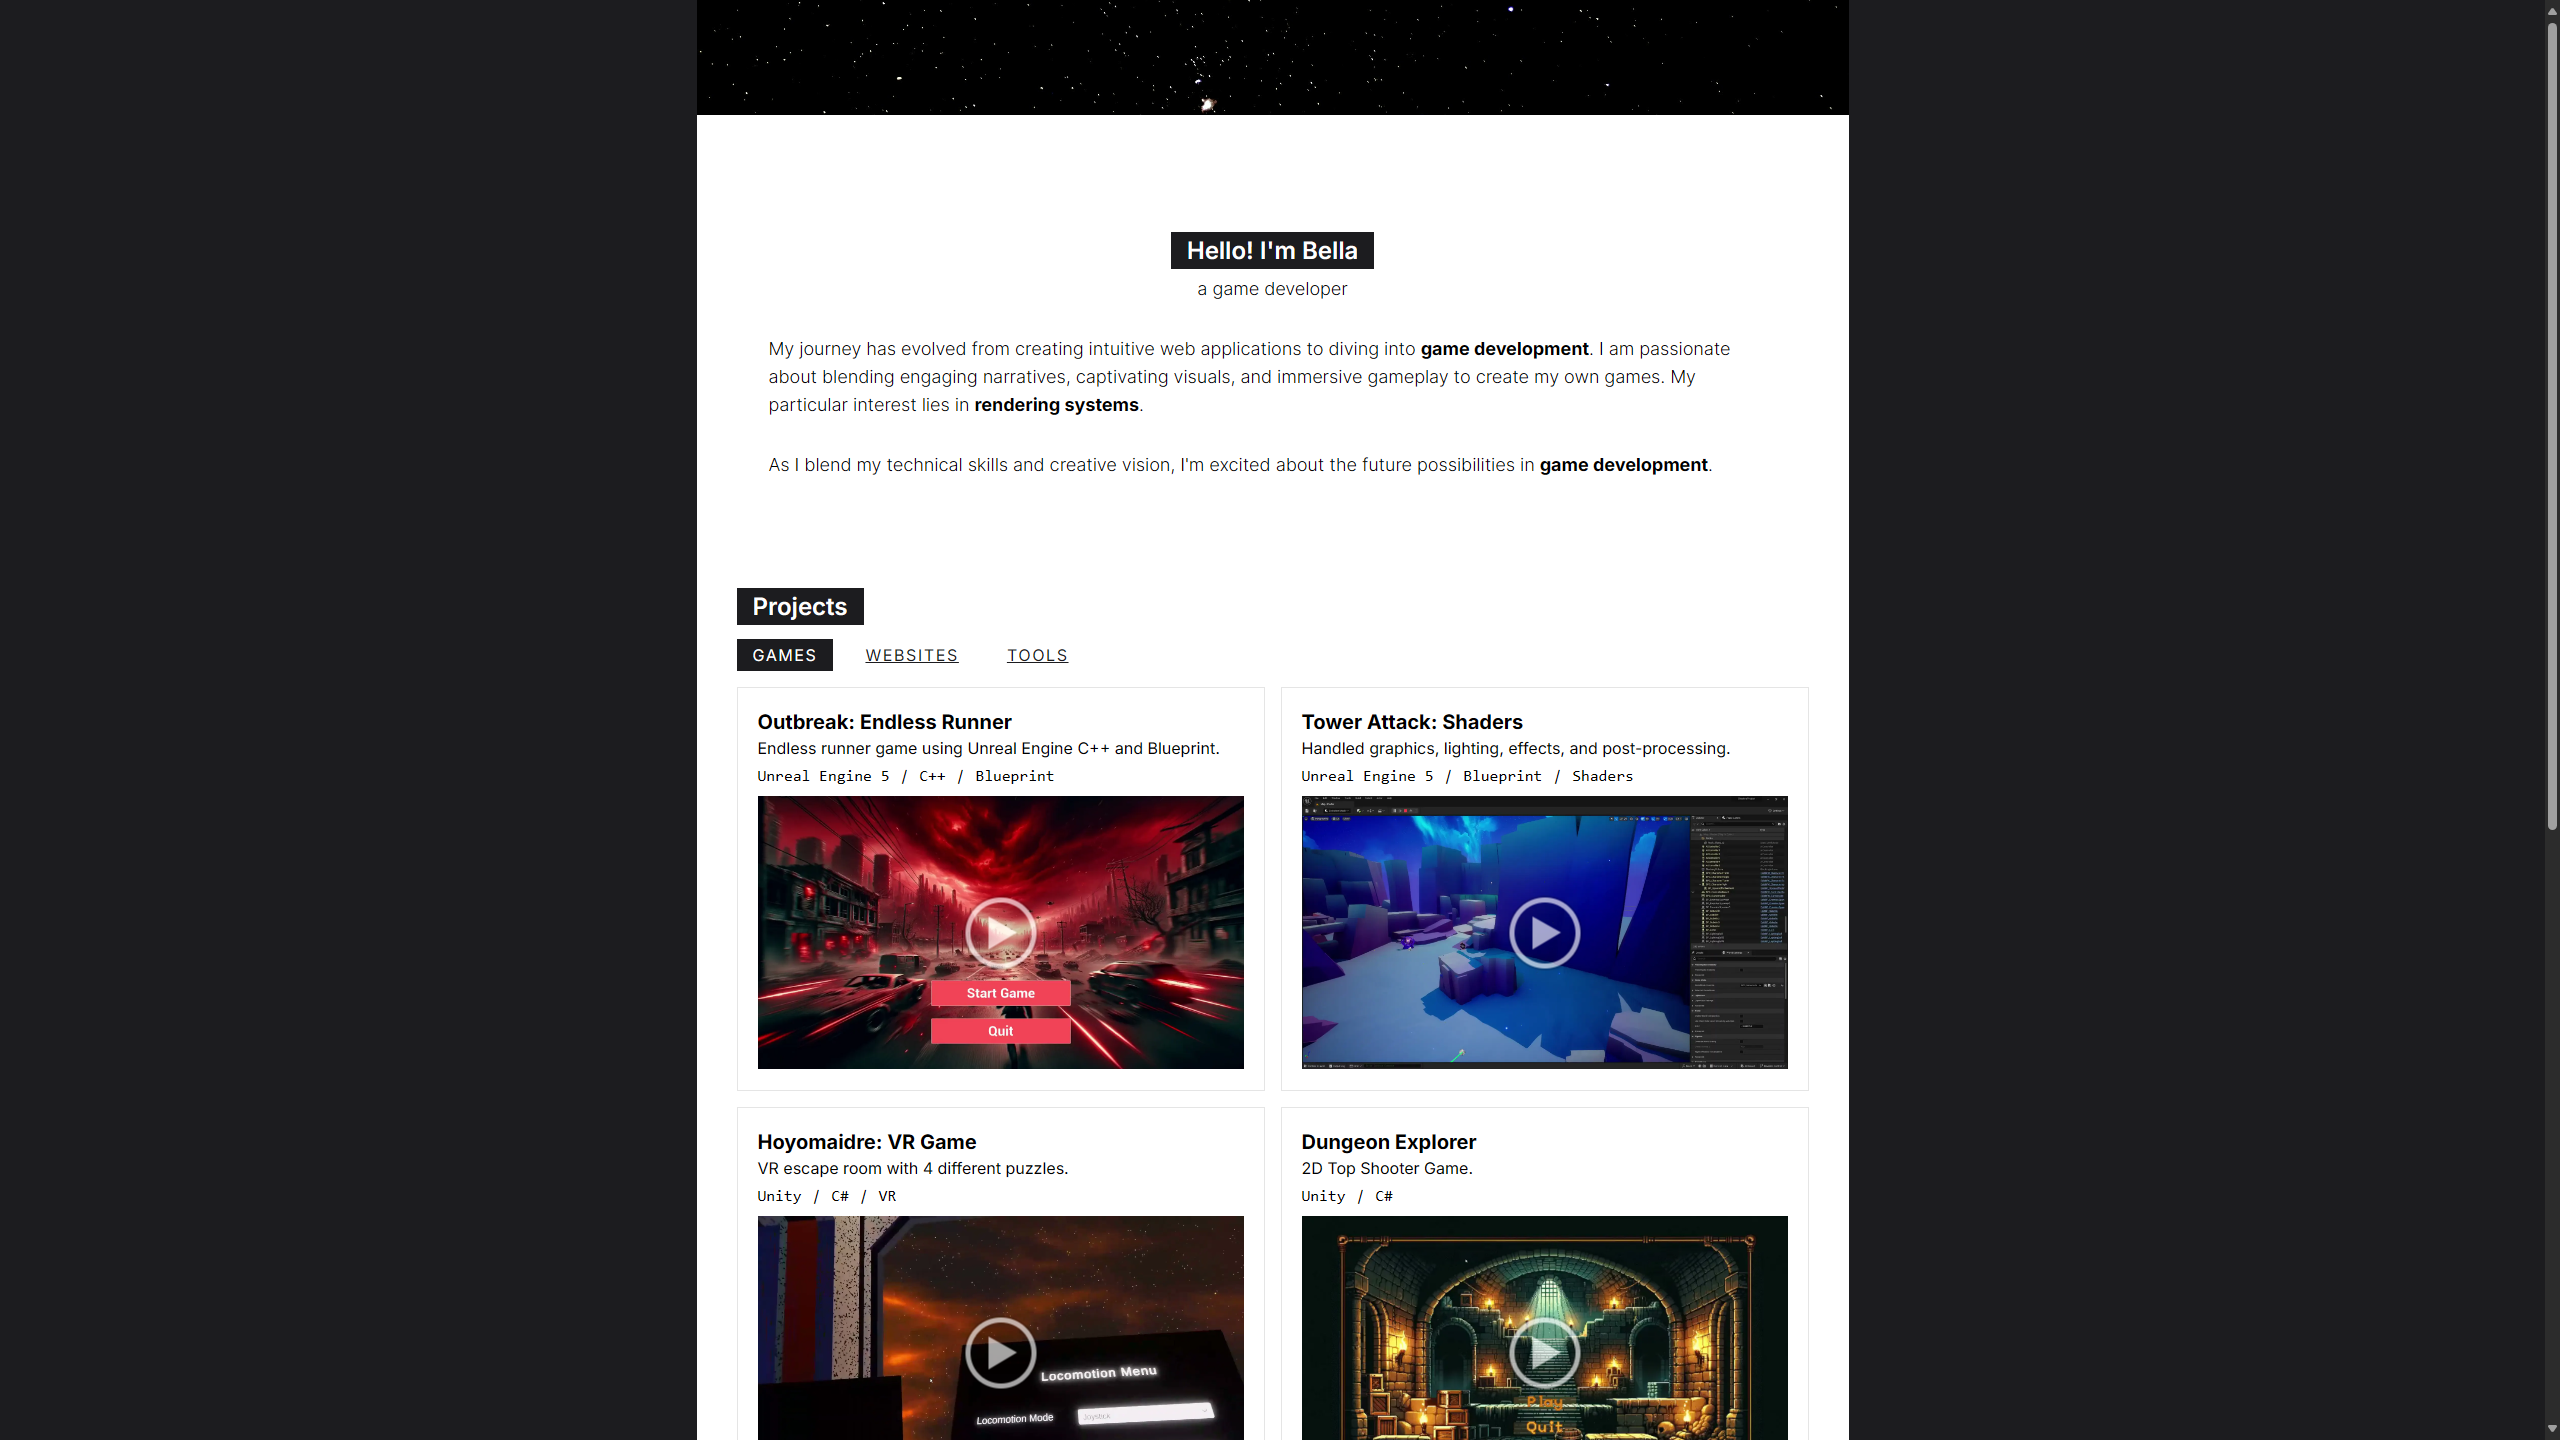
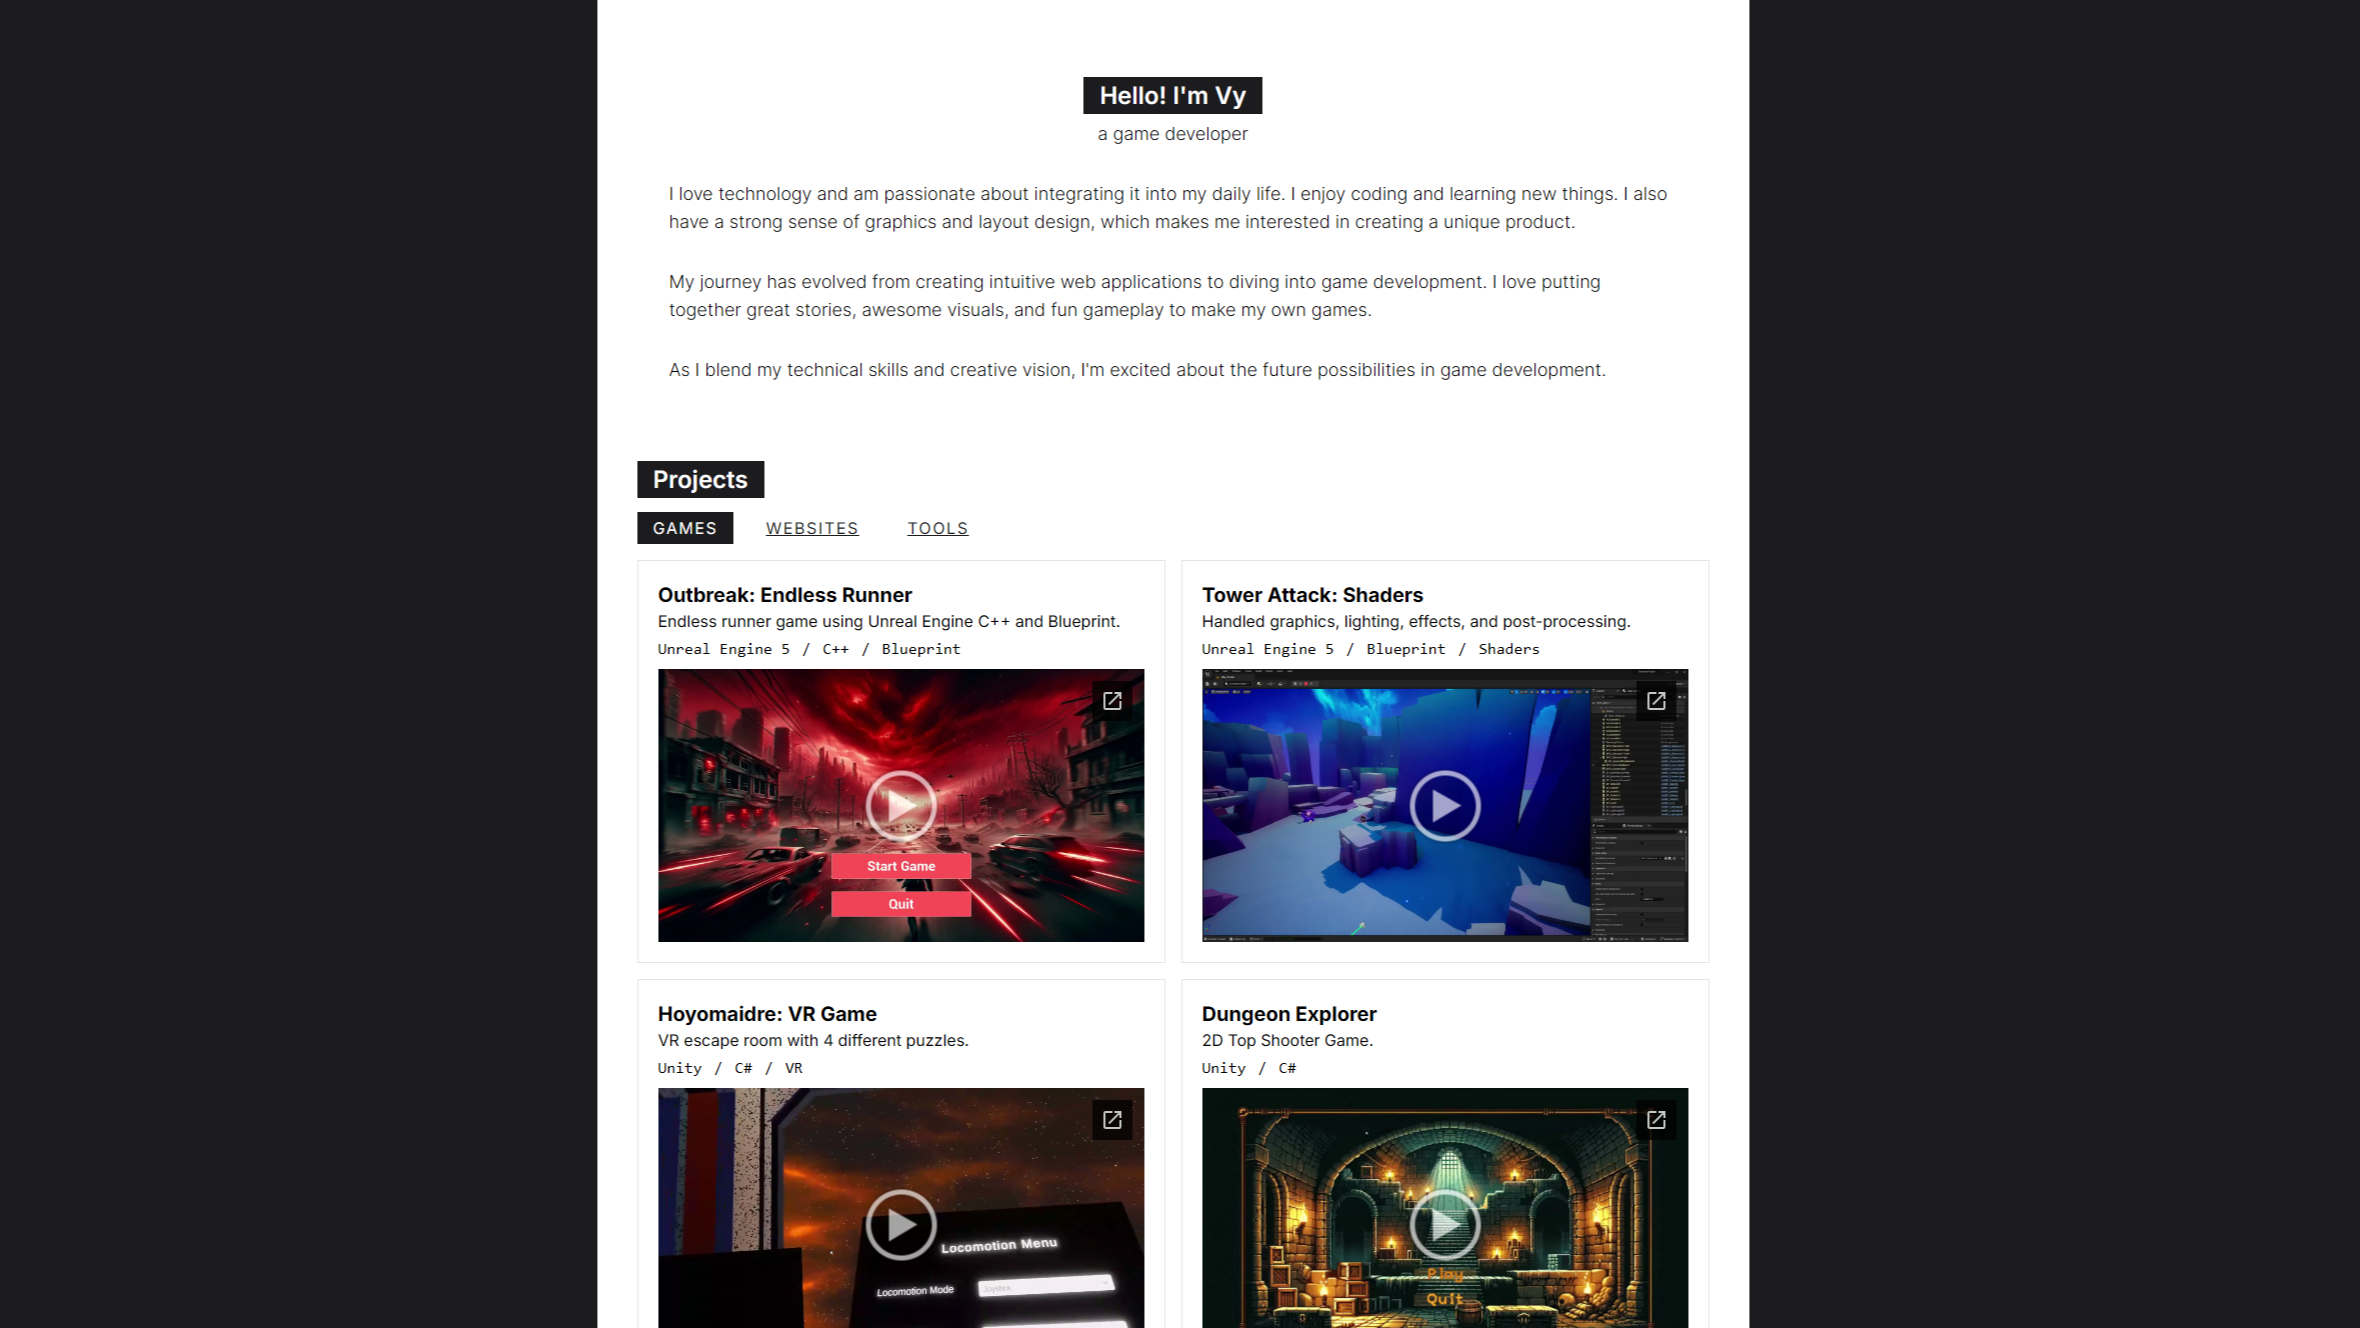
update ui

Changed region(s): [[0.2475, 0.0, 0.7424, 1.0], [0.9898, 0.0, 1.0, 0.5866], [0.9898, 0.988, 1.0, 1.0]]

diff --git a/src/routes/pages/project/Websites.svelte b/src/routes/pages/project/Websites.svelte
@@ -9,11 +9,11 @@ import p_1 from '$lib/assets/project/websites/p_1.png';
 
 let fileData = [
 	{
-		title: 'WIP: Bella Game Store',
-		description: 'My website for selling game accounts automatically is still in progress. You can visit the prototype at the link in the title.',
+		title: 'Bella Sekai',
+		description: 'My website for selling digital products. You can visit the store at the link in the title.',
 		tags: 'SvelteKit, Tailwind CSS, Pocketbase',
 		image: { url: b_1, alt: 'Screenshot of Bella Store' },
-		link: 'https://bella-prsk.github.io',
+		link: 'https://game.bellasekai.com',
 		video: ''
 	},
 	{

diff --git a/src/routes/pages/About.svelte b/src/routes/pages/About.svelte
@@ -2,7 +2,7 @@
 import Heading from '../components/Heading.svelte';
 </script>
 
-<div class="flex flex-col justify-center">
+<div class="flex flex-col justify-center pt-20">
 
 	<div class="px-10 sm:px-6 lg:px-8 text-left text-lg font-light">
 
@@ -28,7 +28,7 @@ import Heading from '../components/Heading.svelte';
 			</p>
 		</div>
 
-		<div class="my-8">
+		<div class="mt-8">
 			<p>
 				As I blend my technical skills and creative vision, I'm excited about the future possibilities in game development.
 			</p>

diff --git a/src/routes/pages/project/Games.svelte b/src/routes/pages/project/Games.svelte
@@ -21,7 +21,7 @@ let fileData = [
 		description: 'Handled graphics, lighting, effects, and post-processing.',
 		tags: 'Unreal Engine 5, Blueprint, Shaders',
 		video: 'https://drive.google.com/file/d/1qOjdPGvJsl8xCMskaPqXQl-NFLOiwuJr/preview',
-		link: 'https://github.com/bellavee/outbreak_ue5cpp',
+		link: 'https://github.com/Cesca19/ShadersProject',
 		image: { url: '', alt: '' }
 	},
 	{

diff --git a/src/routes/+layout.svelte b/src/routes/+layout.svelte
@@ -8,7 +8,7 @@
 
 <div class="bg-navy-900">
     <div class="bg-white max-w-6xl mx-auto">
-        <Header image={{ url: img_background, alt: 'Header background' }}/>
+<!--        <Header image={{ url: img_background, alt: 'Header background' }}/>-->
         <div class="md:px-5 lg:px-10">
             <!-- <Presentation/> -->
             <slot />

diff --git a/src/routes/pages/Project.svelte b/src/routes/pages/Project.svelte
@@ -16,7 +16,7 @@
 
 </script>
 
-<div class="mx-4 sm:mx-auto max-w-screen-xl 2xl:max-w-screen-2xl py-10 md:py-20">
+<div class="mx-4 sm:mx-auto max-w-screen-xl 2xl:max-w-screen-2xl pt-20">
 	<Heading label="Projects"/>
 	
 	<div class="mt-4 flex flex-wrap items-center gap-4 justify-start mb-4">
